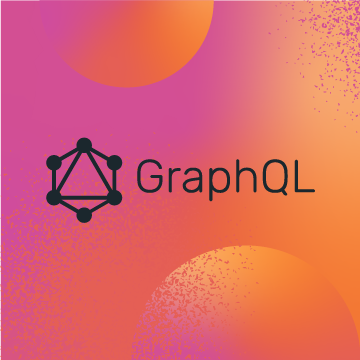
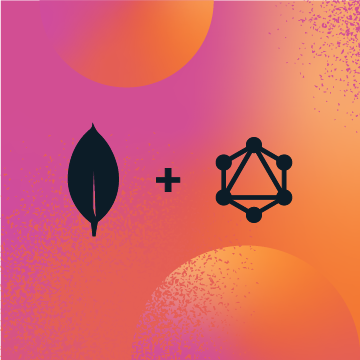
new articles

Changed region(s): [[0.3667, 0.3667, 0.8861, 0.6417], [0.1222, 0.3361, 0.3361, 0.6722]]

diff --git a/src/pages/index.js b/src/pages/index.js
@@ -12,12 +12,12 @@ import {
     size,
 } from '../components/dev-hub/theme';
 import Button from '../components/dev-hub/button';
-import cSharpImage from '../images/1x/c-sharp.png';
+import javaImage from '../images/2x/Java@2x.png';
 import nodejsImage from '../images/1x/Node.JS-1.png';
-import stichImage from '../images/2x/Stitch-triggers@2x.png';
+import buildImage from '../images/2x/Build@2x.png';
+import graphqlImage from '../images/1x/GraphQL.png';
 import greenPatternImage from '../images/2x/pattern-green@2x.png';
 import meetupsImage from '../images/1x/Meetups.png';
-import buildImage from '../images/1x/Build.png';
 import GradientUnderline from '../components/dev-hub/gradient-underline';
 import homepageBackground from '../images/1x/homepage-background.png';
 import ProjectSignUpForm from '../components/dev-hub/project-sign-up-form';
@@ -142,7 +142,7 @@ const Thumbnail = ({ video }) => {
 };
 
 export default () => {
-    const { error, stream, pending, videos } = useTwitchApi();
+    const { stream, videos } = useTwitchApi();
     const twitchVideo = useMemo(() => {
         if (stream) return stream;
         if (videos && videos.length) return videos[0];
@@ -164,24 +164,23 @@ export default () => {
                     <Sub>What will you create today?</Sub>
                     <CardGallery>
                         <StyledTopCard
-                            image={nodejsImage}
-                            to="/how-to/calling-the-mongodb-atlas-api--how-to-do-it-from-node-python-and-ruby"
+                            image={graphqlImage}
+                            to="/how-to/introducing-graphql-support-in-mongodb-atlas-with-stitch"
                         >
-                            Calling the MongoDB Atlas API - How to do it from
-                            Node, Python, and Ruby
+                            Introducing GraphQL Support in MongoDB Atlas with
+                            Stitch
                         </StyledTopCard>
                         <StyledTopCard
-                            image={stichImage}
-                            to="/how-to/mongodb-stitch-authentication-triggers"
+                            image={buildImage}
+                            to="/quickstart/free-atlas-cluster"
                         >
-                            MongoDB Stitch Authentication Triggers
+                            Getting Your Free MongoDB Atlas Cluster
                         </StyledTopCard>
                         <StyledTopCard
-                            image={cSharpImage}
-                            to="/how-to/working-with-mongodb-transactions-with-c-and-the-net-framework"
+                            image={javaImage}
+                            to="/quickstart/java-aggregation-pipeline"
                         >
-                            Working with MongoDB Transactions with C# and the
-                            .NET Framework{' '}
+                            Java - Aggregation Pipeline
                         </StyledTopCard>
                     </CardGallery>
                     <div>
